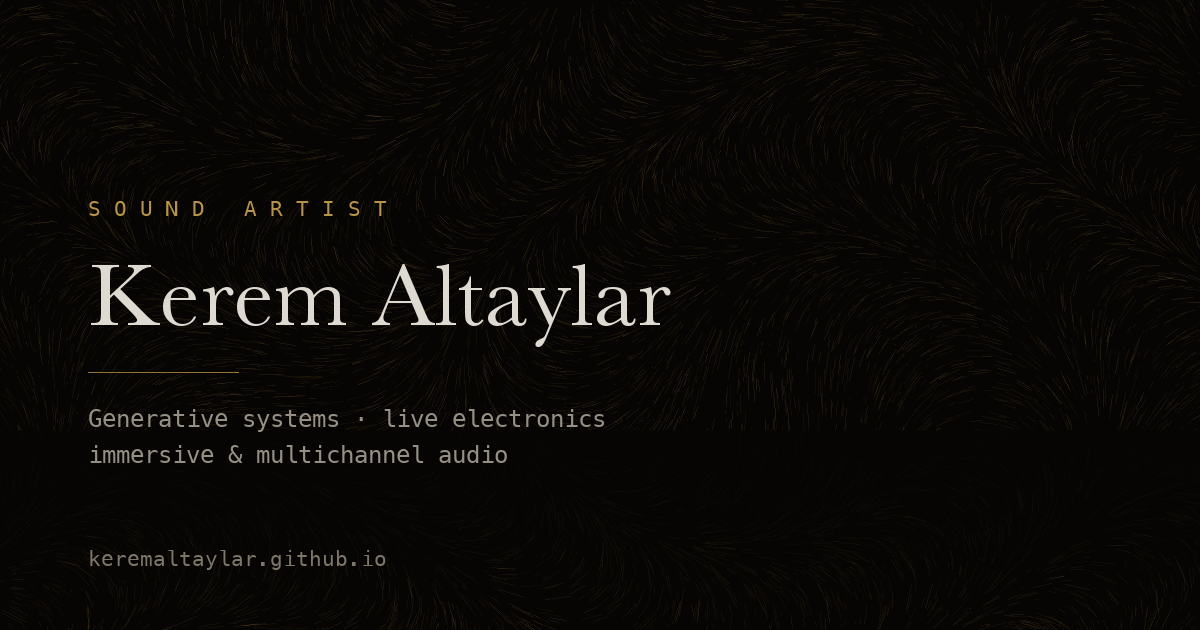
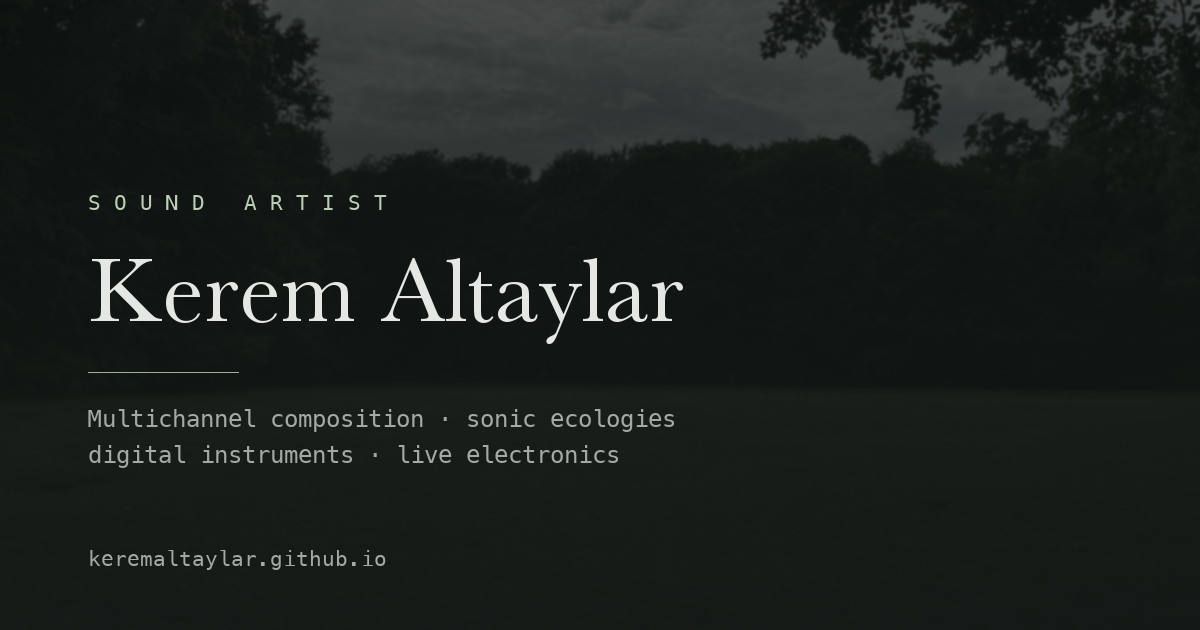
Rework palette around the forest photograph; content corrections
- New theme sampled from the background image: deep treeline, olive meadow,
  pale overcast sky. Lighter, more muted base; sage accent replaces gold
- Forest photograph layered behind the flow field, with a scrim for legibility;
  reading-heavy pages get a faded still version instead of the animation
- Particles recoloured to sky/sage/meadow tones, softened
- Canvas now composites transparently so the photo shows through
- Logo set in a single colour
- Rewrote About: balances composition, audio programming and research
- Removed PolySynth VMI-000, SoundCloud, Extremophile
- The Colony is quadraphonic
- Emptied the field log
- Regenerated OG image and favicon for the new palette

diff --git a/src/styles/global.css b/src/styles/global.css
@@ -4,14 +4,15 @@
 @import '@fontsource/courier-prime/700.css';
 
 :root {
-  /* Ported from the previous site, warmed slightly for contrast */
-  --bg: #060504;
-  --bg-raised: #0d0b09;
-  --ink: #dedad2;
-  --dim: #7d7669;
-  --gold: #b89448;
-  --gold-soft: rgba(184, 148, 72, 0.5);
-  --bdr: rgba(184, 148, 72, 0.14);
+  /* Sampled from the forest photograph used as the site background:
+     deep treeline #0c1010, olive meadow #3d3e27, pale overcast sky #b6bac3. */
+  --bg: #1a221e;
+  --bg-raised: #232c27;
+  --ink: #e4e7e4;
+  --dim: #a3aaa4;
+  --accent: #bccfb6;
+  --accent-soft: rgba(188, 207, 182, 0.55);
+  --bdr: rgba(188, 207, 182, 0.16);
 
   --font-display: 'Cormorant Garamond Variable', Georgia, serif;
   --font-body: 'Newsreader Variable', Georgia, serif;
@@ -72,7 +73,7 @@ h3 {
   font-size: 0.72rem;
   letter-spacing: 0.24em;
   text-transform: uppercase;
-  color: var(--gold);
+  color: var(--accent);
 }
 
 p {
@@ -81,17 +82,17 @@ p {
 
 a {
   color: inherit;
-  text-decoration-color: var(--gold-soft);
+  text-decoration-color: var(--accent-soft);
   text-underline-offset: 0.25em;
   transition: color 0.3s ease;
 }
 
 a:hover {
-  color: var(--gold);
+  color: var(--accent);
 }
 
 :focus-visible {
-  outline: 2px solid var(--gold);
+  outline: 2px solid var(--accent);
   outline-offset: 3px;
 }
 
@@ -118,7 +119,7 @@ a:hover {
   font-size: 0.68rem;
   letter-spacing: 0.28em;
   text-transform: uppercase;
-  color: var(--gold);
+  color: var(--accent);
 }
 
 .prose p + p {

diff --git a/src/data/site.ts b/src/data/site.ts
@@ -9,13 +9,11 @@ export const SITE = {
     { label: 'Bandcamp', href: 'https://keremaltaylar.bandcamp.com' },
     { label: 'Instagram', href: 'https://instagram.com/keremaltaylar' },
     { label: 'GitHub', href: 'https://github.com/KeremAltaylar' },
-    { label: 'SoundCloud', href: 'https://soundcloud.com/kerem-altaylar' },
   ],
   sameAs: [
     'https://keremaltaylar.bandcamp.com',
     'https://instagram.com/keremaltaylar',
     'https://github.com/KeremAltaylar',
-    'https://soundcloud.com/kerem-altaylar',
     'https://www.fxhash.xyz/u/Kerem%20Altaylar',
   ],
 } as const;

diff --git a/src/content/works/the-colony/index.md b/src/content/works/the-colony/index.md
@@ -2,7 +2,7 @@
 title: "Microsoundscapes and The Colony"
 year: 2025
 type: research
-format: "Live electronics, custom contact-mic formicarium"
+format: "Quadraphonic"
 venue: "Hochschule für Musik, Hannover"
 summary: "A DIY formicarium fitted with contact microphones, used as both research instrument and performance system for listening at the threshold of audibility."
 featured: true
